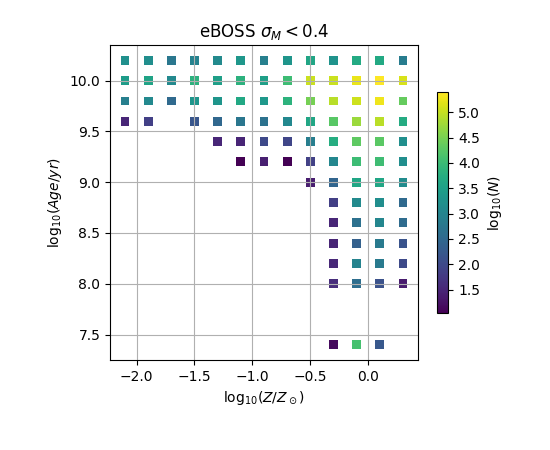
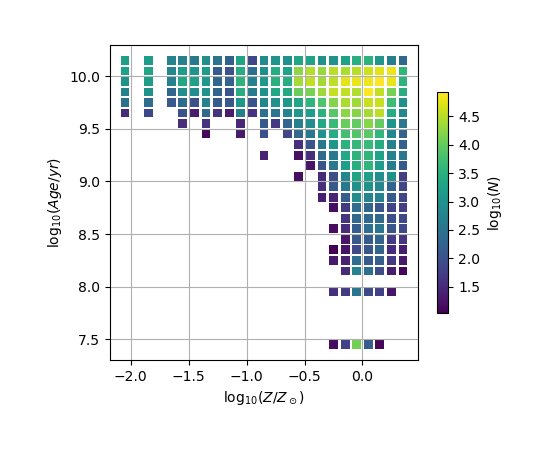
a-z plots sdss

diff --git a/bin/bin_parameters_exploration/plot_age_metal_plane.py b/bin/bin_parameters_exploration/plot_age_metal_plane.py
@@ -3,7 +3,7 @@ from lib_spm import *
 #out_dir = os.path.join('/data42s/comparat/firefly/v1_1_0/figures', 'mass-redshift-presentation')
 out_dir = os.path.join(os.environ['HOME'], 'software/linux/firefly_explore', 'data/images', 'az')
 
-def plot_az(imf_ref):
+def plot_az_boss(imf_ref):
 	stellar_mass = imf_ref+'stellar_mass'
 	age = imf_ref+'age_lightW'
 	metal = imf_ref+'metallicity_lightW'
@@ -23,8 +23,8 @@ def plot_az(imf_ref):
 	A_04_ref = n.log10(boss[age][ok_boss_04]           )
 	Z_04_ref = n.log10(boss[metal][ok_boss_04]         )
 
-	a_bins = n.arange(6.5, 10.5, 0.2)
-	z_bins = n.arange(-3,3,0.2)
+	a_bins = n.arange(6.5, 10.5, 0.1)
+	z_bins = n.arange(-3,3,0.1)
 
 	XX, YY = n.meshgrid((z_bins[1:]+z_bins[:-1])/2., 0.5*(a_bins[1:]+a_bins[:-1]))
 
@@ -39,17 +39,60 @@ def plot_az(imf_ref):
 	#p.xlim((-0.05, 1.4))
 	#p.ylim((6.5, 12.5))
 	p.grid()
-	p.title('eBOSS '+r'$\sigma_M < 0.4$')
+	#p.title('eBOSS '+r'$\sigma_M < 0.4$')
 	p.savefig(os.path.join(out_dir, "age_metallicity_"+imf_ref+"eboss_04.png" ))
 	p.clf()
 
+def plot_az_sdss(imf_ref):
+	stellar_mass = imf_ref+'stellar_mass'
+	age = imf_ref+'age_lightW'
+	metal = imf_ref+'metallicity_lightW'
 
-plot_az(imf_ref = imfs[0])
-plot_az(imf_ref = imfs[1])
-plot_az(imf_ref = imfs[2])
-plot_az(imf_ref = imfs[3])
-plot_az(imf_ref = imfs[4])
-plot_az(imf_ref = imfs[5])
-plot_az(imf_ref = imfs[6])
-plot_az(imf_ref = imfs[7])
-plot_az(imf_ref = imfs[8])
+	redshift_reliable_sdss =  (sdss['CLASS'] == "GALAXY")       & ( sdss['Z_ERR'] > 0.0)       & (sdss['ZWARNING'] == 0)       & (sdss['Z'] > 0.001) & (sdss['Z'] > sdss['Z_ERR'] ) 
+	
+	error_reliable_sdss = (sdss[stellar_mass+'_up_1sig'] > sdss[stellar_mass+'_low_1sig'] ) & (sdss[stellar_mass+'_up_1sig'] > 0. ) & ( sdss[stellar_mass+'_low_1sig'] > 0. ) & (sdss[stellar_mass+'_up_1sig'] < 1e14 ) & ( sdss[stellar_mass+'_low_1sig'] < 1e14 ) 
+
+	mass_reliable_sdss_04 = (sdss[stellar_mass] > 1e6 ) & ( sdss[stellar_mass] < 1e14 ) & ((n.log10(sdss[stellar_mass+'_up_1sig']) - n.log10(sdss[stellar_mass+'_low_1sig']))/2. < 0.4 )
+
+	ok_sdss_04 = (error_reliable_sdss) & (mass_reliable_sdss_04) & (redshift_reliable_sdss)
+
+	A_04_ref = n.log10(sdss[age][ok_sdss_04]           )
+	Z_04_ref = n.log10(sdss[metal][ok_sdss_04]         )
+
+	a_bins = n.arange(6.5, 10.5, 0.1)
+	z_bins = n.arange(-3,3,0.1)
+
+	XX, YY = n.meshgrid((z_bins[1:]+z_bins[:-1])/2., 0.5*(a_bins[1:]+a_bins[:-1]))
+
+	p.figure(0, (5.5, 4.5))
+	p.axes([0.2,0.2,0.7,0.7])
+	HH = n.histogram2d(Z_04_ref, A_04_ref, bins=[z_bins, a_bins])[0].T
+	p.scatter(XX[HH>10], YY[HH>10], c=n.log10(HH[HH>10]), s=40, edgecolors='none', marker='s' )
+	p.ylabel(r'$\log_{10}(Age/yr)$')
+	p.xlabel(r'$\log_{10}(Z/Z_\odot)$')
+	p.colorbar(shrink=0.7, label=r'$\log_{10}(N)$')
+	p.legend(loc=0, frameon = False)
+	p.grid()
+	p.savefig(os.path.join(out_dir, "age_metallicity_"+imf_ref+"sdss_04.png" ))
+	p.clf()
+
+plot_az_sdss(imf_ref = imfs[0])
+plot_az_sdss(imf_ref = imfs[1])
+plot_az_sdss(imf_ref = imfs[2])
+plot_az_sdss(imf_ref = imfs[3])
+plot_az_sdss(imf_ref = imfs[4])
+plot_az_sdss(imf_ref = imfs[5])
+plot_az_sdss(imf_ref = imfs[6])
+plot_az_sdss(imf_ref = imfs[7])
+plot_az_sdss(imf_ref = imfs[8])
+
+
+plot_az_boss(imf_ref = imfs[0])
+plot_az_boss(imf_ref = imfs[1])
+plot_az_boss(imf_ref = imfs[2])
+plot_az_boss(imf_ref = imfs[3])
+plot_az_boss(imf_ref = imfs[4])
+plot_az_boss(imf_ref = imfs[5])
+plot_az_boss(imf_ref = imfs[6])
+plot_az_boss(imf_ref = imfs[7])
+plot_az_boss(imf_ref = imfs[8])
